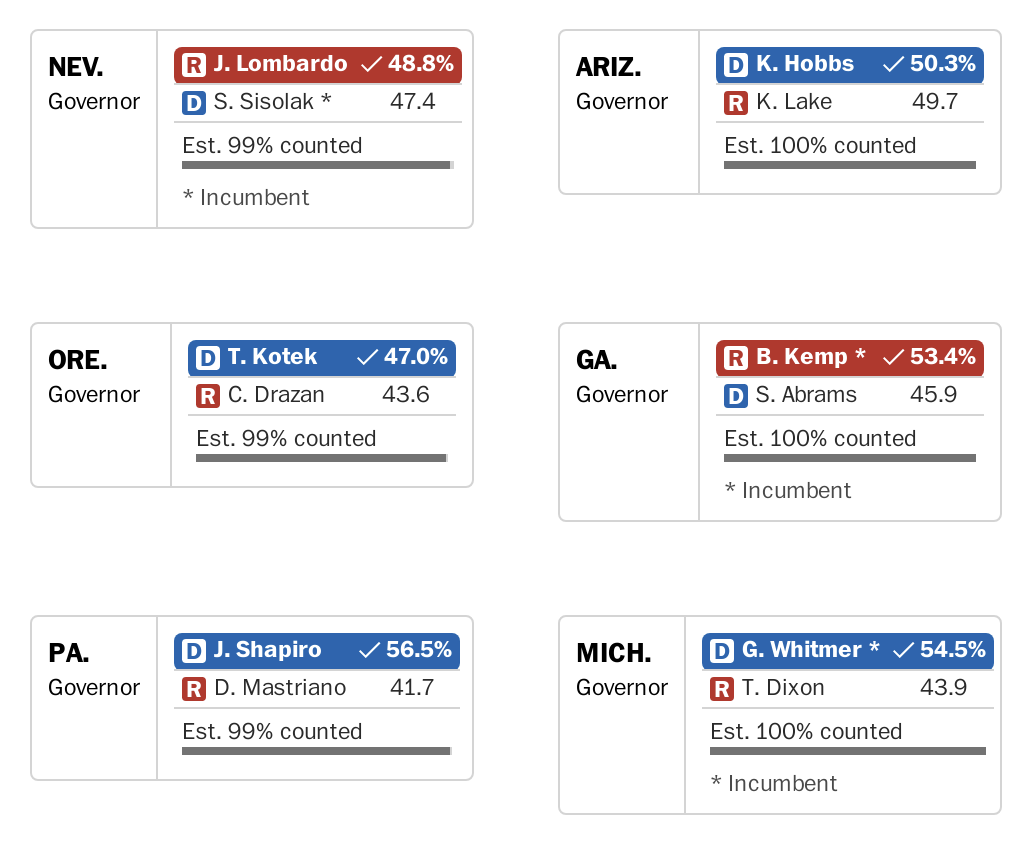
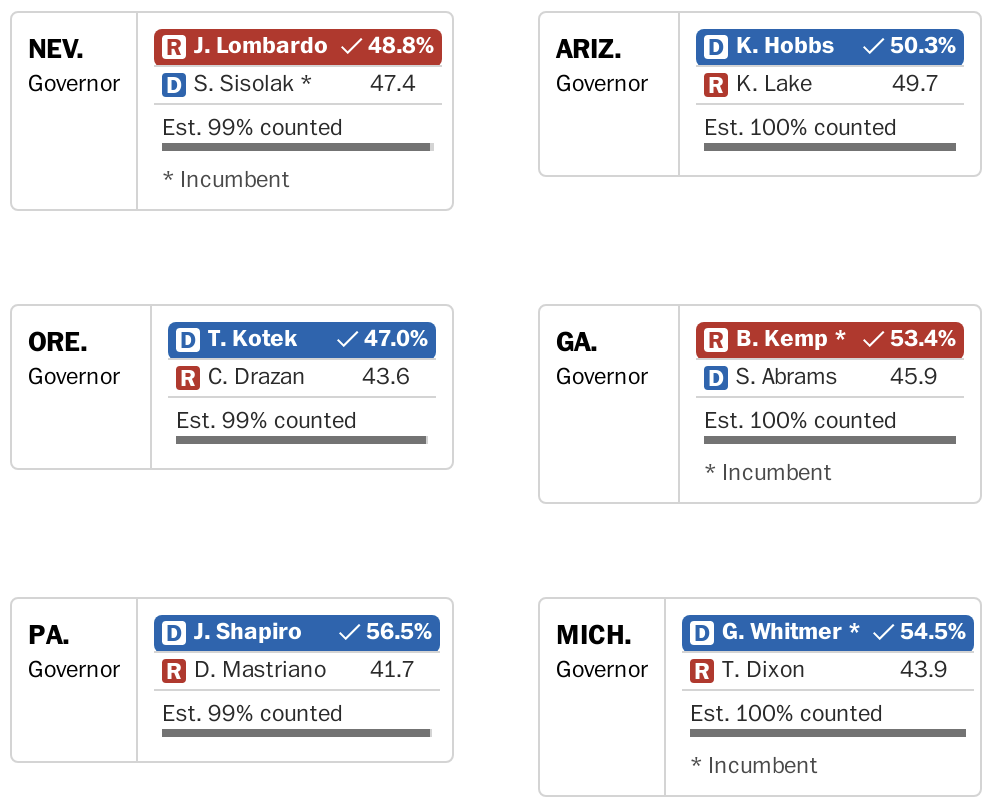
fix: refine text

diff --git a/compact-results-table.html b/compact-results-table.html
@@ -186,10 +186,14 @@
                         indicators</li>
                       <li>Made the table flexible for different election types (primary vs general)</li>
                       <li>Optimized spacing, alignment, and wrapping behavior for mobile</li>
-                      <li>Accounted for edge cases by enabling customizations (e.g. only using the last name when names are very long)</li>
+                      <li>Accounted for edge cases by enabling customizations (e.g. only using the last name when names
+                        are very long)</li>
                     </ul>
-                    <img class="embedded-img small" src="assets/img/portfolio/compact_results_table.png" alt="">
-                    <img class="embedded-img small" src="assets/img/portfolio/compact_results_table_5.png" alt="">
+                    <img class="embedded-img small" src="assets/img/portfolio/compact_results_table.png" alt=""
+                      style="display: block;">
+                    <!-- <img class="embedded-img x-small" src="assets/img/portfolio/compact_results_table_5.png" alt="" style="display: block;"> -->
+                    <img class="embedded-img" src="assets/img/portfolio/compact_results_table_6.png" alt="">
+
                     <!-- Optional image insert -->
                     <!-- <img class="embedded-img" width="80%" src="assets/img/portfolio/compact_results_table.png" alt="Compact Results Table Screenshot"> -->
                   </div>
@@ -199,6 +203,11 @@
                     <p>The main challenge was fitting meaningful results into a tight space without confusing users. The
                       reversed layout also required careful user testing and internal review. I made sure the component
                       handled a wide range of race types and edge cases across elections.</p>
+                    <p>It was especially challenging to account for all edge cases, including varying names and name lengths. We built in fallback behavior
+                      to wrap names when absolutely necessary, but thorough testing before each election is always crucial to ensure
+                      clarity. The component can be customized to show only last names if a candidate name is too long.
+                      However, in one election, two candidates had the same first initial and last name, so we had to be
+                      thoughtful in how we displayed them within such a small component.</p>
                   </div>
 
                   <div class="use-case-section">
@@ -230,9 +239,11 @@
                   <li><strong>Tools</strong> Figma, TypeScript, React, Stitches</li>
                   <li><strong>Project date</strong> April-May, 2022</li>
                   <li><strong>Project URL</strong> <a
-                    href="https://www.washingtonpost.com/elections/midterms-2022/">https://www.washingtonpost.com/elections/midterms-2022/</a></li>
-                <li><a href="https://www.washingtonpost.com/elections/midterms-2022/" class="btn-visit align-self-start">Visit
-                    Website</a></li>
+                      href="https://www.washingtonpost.com/elections/midterms-2022/">https://www.washingtonpost.com/elections/midterms-2022/</a>
+                  </li>
+                  <li><a href="https://www.washingtonpost.com/elections/midterms-2022/"
+                      class="btn-visit align-self-start">Visit
+                      Website</a></li>
                 </ul>
               </div>
             </div>

diff --git a/assets/css/main.css b/assets/css/main.css
@@ -1485,6 +1485,10 @@ section,
   width: 50% !important;
 }
 
+.embedded-img.x-small {
+  width: 34% !important;
+}
+
 .use-case-section {
   margin: 0px 0px 40px 0px;
 }
